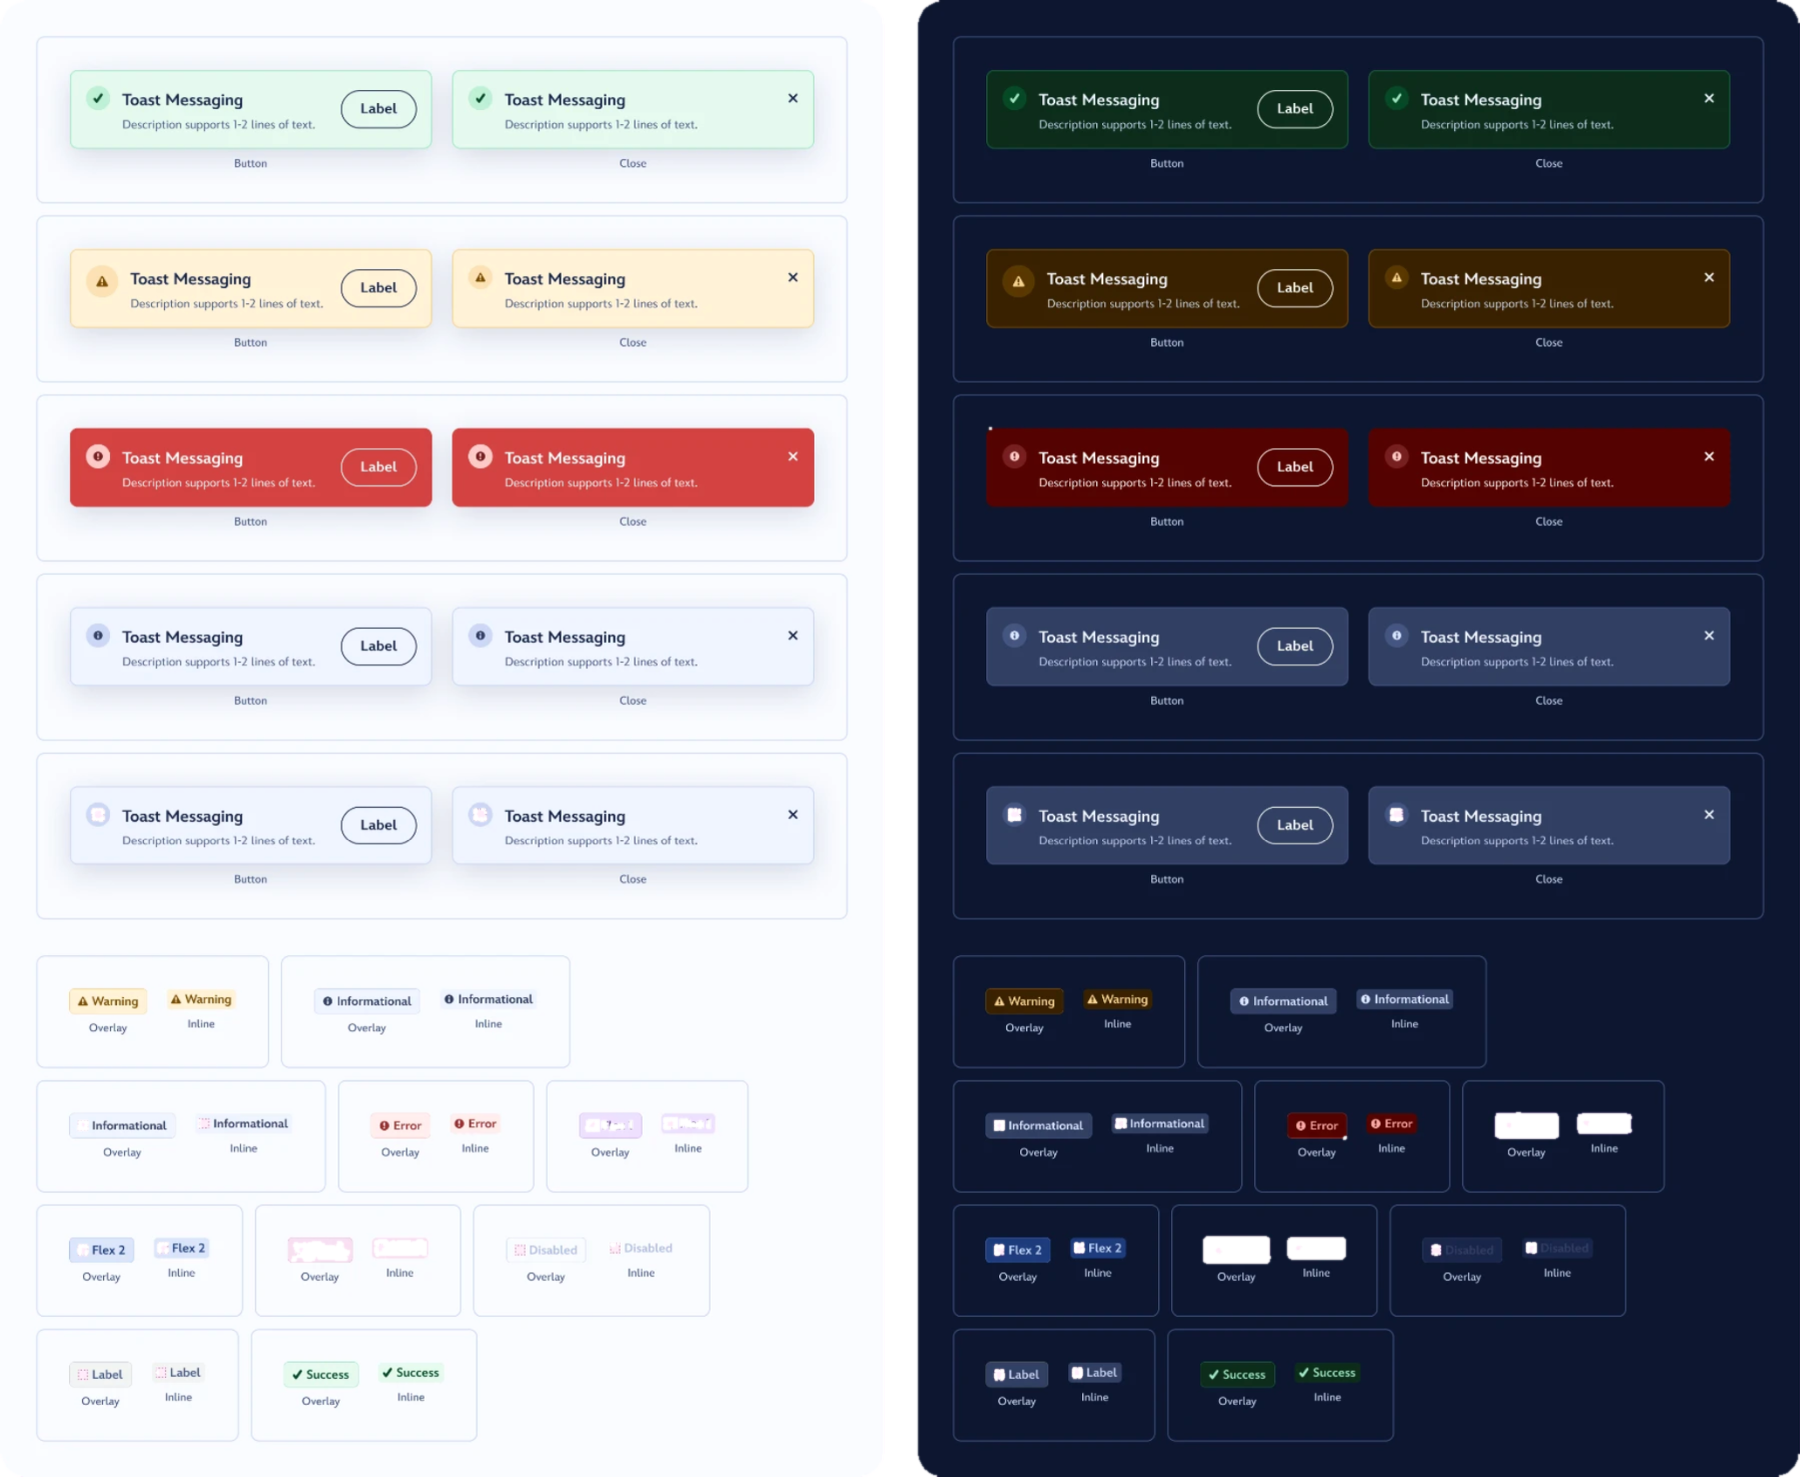
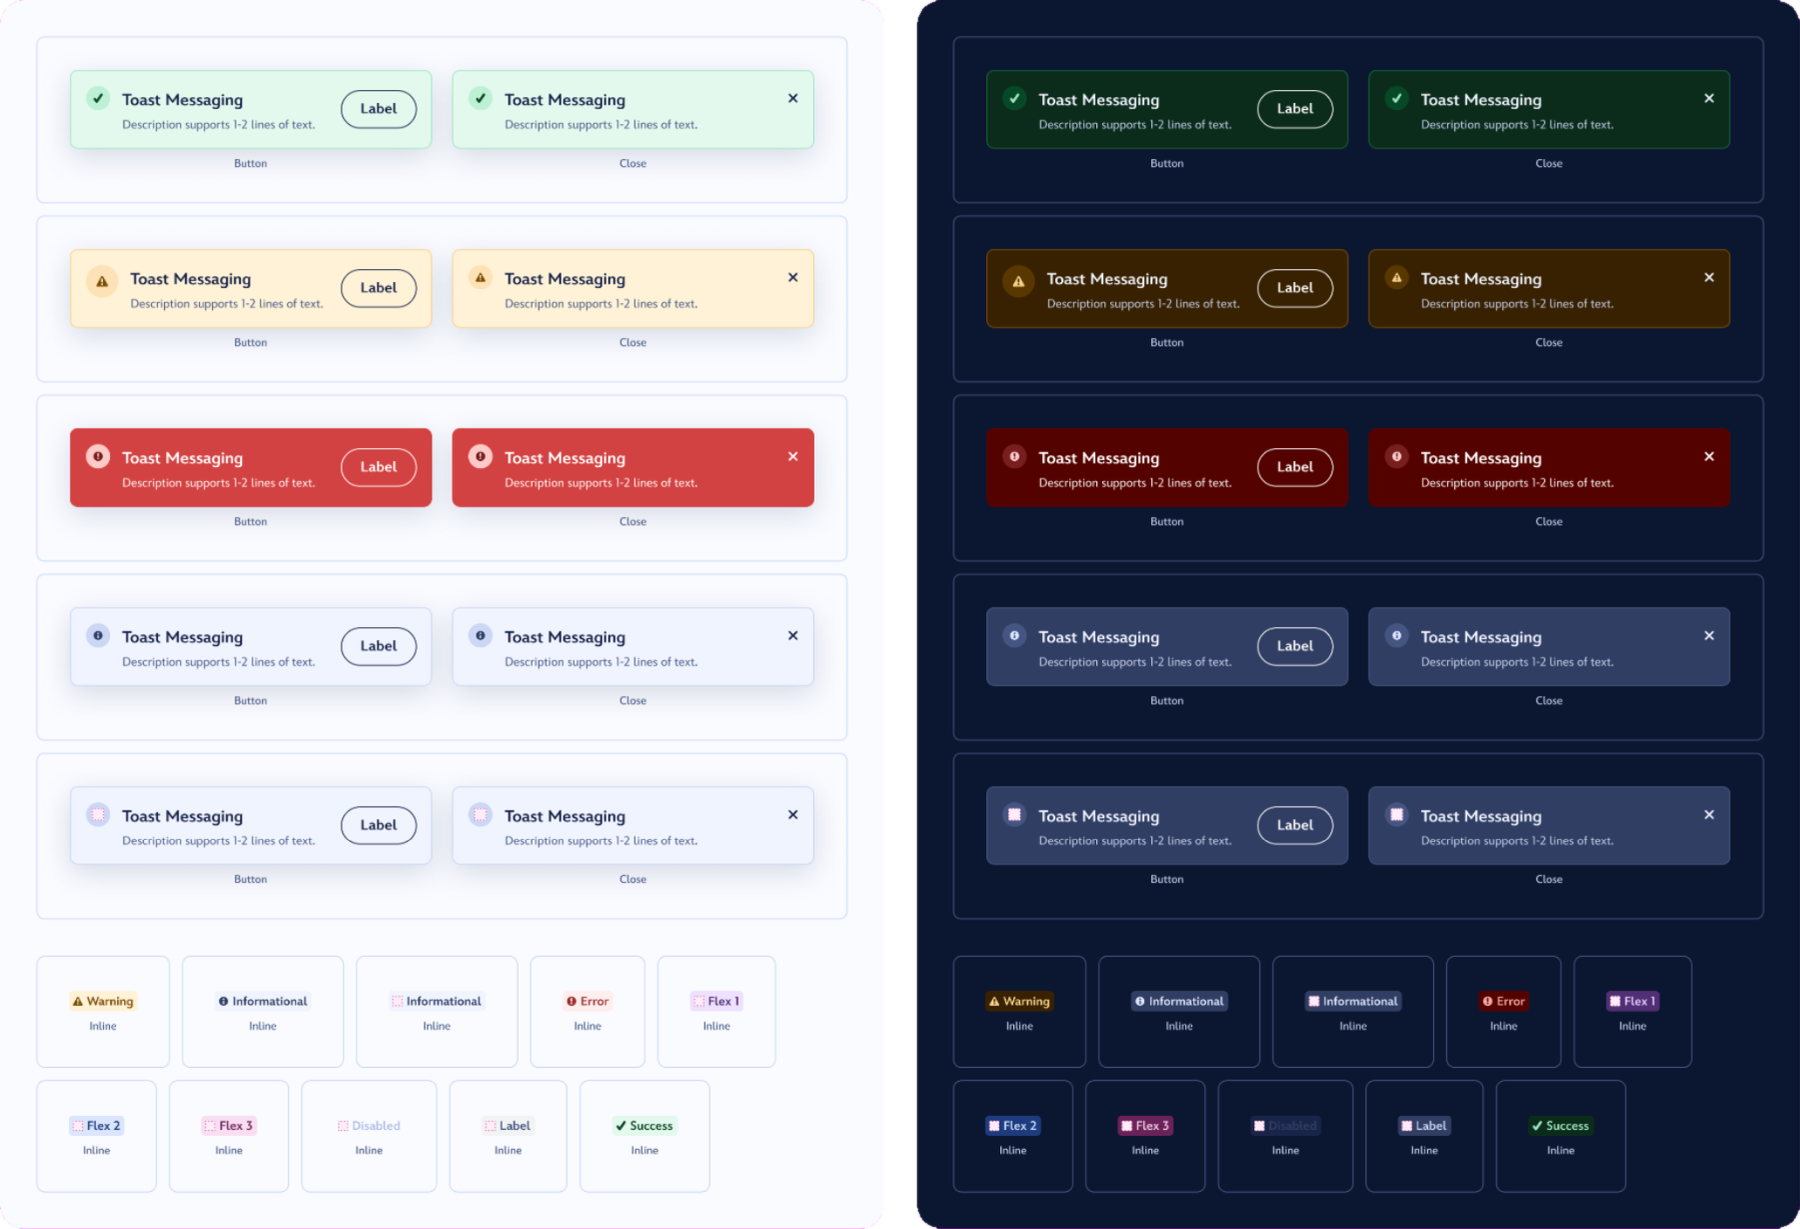
Disney: Scope card instead of Result; alert image without overlay badges, clean cutout
Claude-Session: https://claude.ai/code/session_01QtBBYLn9H1tRY41einoAmH

diff --git a/work/disney-dark-mode.html b/work/disney-dark-mode.html
@@ -31,7 +31,7 @@
     <div class="cs-media"><button class="shot phones-shot" type="button" aria-label="View Light and dark, side by side larger"><div class="phones" role="img" aria-label="Trip home screen in light and dark mode, scrolling side by side"><figure class="phone"><figcaption>Light</figcaption><div class="screen-wrap"><div class="screen"><img class="scroll" src="../images/disney/screen-light.webp" alt=""><img class="tabs tl" src="../images/disney/tabs-light.webp" alt=""><span class="status-bg"></span><img class="status st-top" src="../images/disney/status-dark-text.webp" alt=""><img class="status st-scrolled" src="../images/disney/status-dark-text.webp" alt=""><span class="island"></span><span class="home-ind"></span></div></div></figure><figure class="phone"><figcaption>Dark</figcaption><div class="screen-wrap"><div class="screen"><img class="scroll" src="../images/disney/screen-dark.webp" alt=""><img class="tabs td" src="../images/disney/tabs-dark.webp" alt=""><span class="status-bg"></span><img class="status st-top" src="../images/disney/status-light-text.webp" alt=""><img class="status st-scrolled" src="../images/disney/status-light-text.webp" alt=""><span class="island"></span><span class="home-ind"></span></div></div></figure></div><span class="note" hidden><strong>Light and dark, side by side</strong><p>The trip home screen in both themes, scrolling together with the tab bar pinned, so you can compare how surfaces, cards, type and brand colors carry over from light to dark.</p></span></button></div>
     <div class="cs-text">
       <div class="cs-head"><p class="eyebrow">Product design and design systems</p><h1>Disney Parks – Dark Mode</h1><div class="lead"><p>Exploring a dark theme for Disney&#x27;s parks app, built into the Vista design system so every screen and component can switch with its tokens.</p></div></div>
-      <div class="cs-meta stats"><div class="stat"><span class="v">The Walt Disney Company</span><span class="k">Designed for</span></div><div class="stat"><span class="v">2026</span><span class="k">Date</span></div><div class="stat"><span class="v">Senior Product Designer</span><span class="k">Role</span></div><div class="stat"><span class="v">Design system exploration</span><span class="k">Result</span></div></div>
+      <div class="cs-meta stats"><div class="stat"><span class="v">The Walt Disney Company</span><span class="k">Designed for</span></div><div class="stat"><span class="v">2026</span><span class="k">Date</span></div><div class="stat"><span class="v">Senior Product Designer</span><span class="k">Role</span></div><div class="stat"><span class="v">Every Vista component, light and dark</span><span class="k">Scope</span></div></div>
       <div class="story work-story"><section><h2>The problem</h2><div class="body"><p>Guests use the parks app all day, often where a bright white screen gets in the way: at nighttime shows, in dark ride queues and late in the day on a low battery. The app had no dark theme.</p></div></section><section><h2>Why dark mode</h2><div class="body"><ul><li>Saves battery</li><li>Easier viewing at night</li><li>Less glare in dark rides and indoor queues</li></ul></div></section><section><h2>The approach</h2><div class="body"><p>I built dark mode into the Vista design system so every component switches with tokens. Each component was reviewed side by side in light and dark, then the theme was tested on real parks app screens.</p></div></section><section><h2>Open questions</h2><div class="body"><ul><li>One &quot;inverse&quot; token does two jobs that need to split in dark mode. Renaming it is a breaking change, so it is on hold while the team weighs the cost.</li><li>Brand colors can only get so light before white text loses contrast.</li><li>Toasts, disabled states, map pins and menus still need contrast tuning.</li></ul></div></section></div>
     </div>
   </section><section class="cs-row">

diff --git a/content.py b/content.py
@@ -92,7 +92,8 @@ UX = [{'slug': 'disney-dark-mode',
   'year': '2026',
   'date': '2026',
   'role': 'Senior Product Designer',
-  'result': 'Design system exploration',
+  'result_label': 'Scope',
+  'result': 'Every Vista component, light and dark',
   'summary': "Exploring a dark theme for Disney's parks app, built into the Vista design system so every "
              'screen and component can switch with its tokens.',
   'box_cover': 'images/disney/dark-mode-box-v2.webp',

diff --git a/build.py b/build.py
@@ -560,7 +560,7 @@ def build_project(p):
     if p.get("role"):
         left += stat("Role", escape(p["role"]))
     if p.get("result"):
-        left += stat("Result", escape(p["result"]))
+        left += stat(escape(p.get("result_label", "Result")), escape(p["result"]))
     eyebrow = f'<p class="eyebrow">{escape(p.get("type") or ("Product design" if p["section"] == "ux" else "Design + Branding"))}</p>'
 
     text = p.get("description") or p.get("summary") or ""
